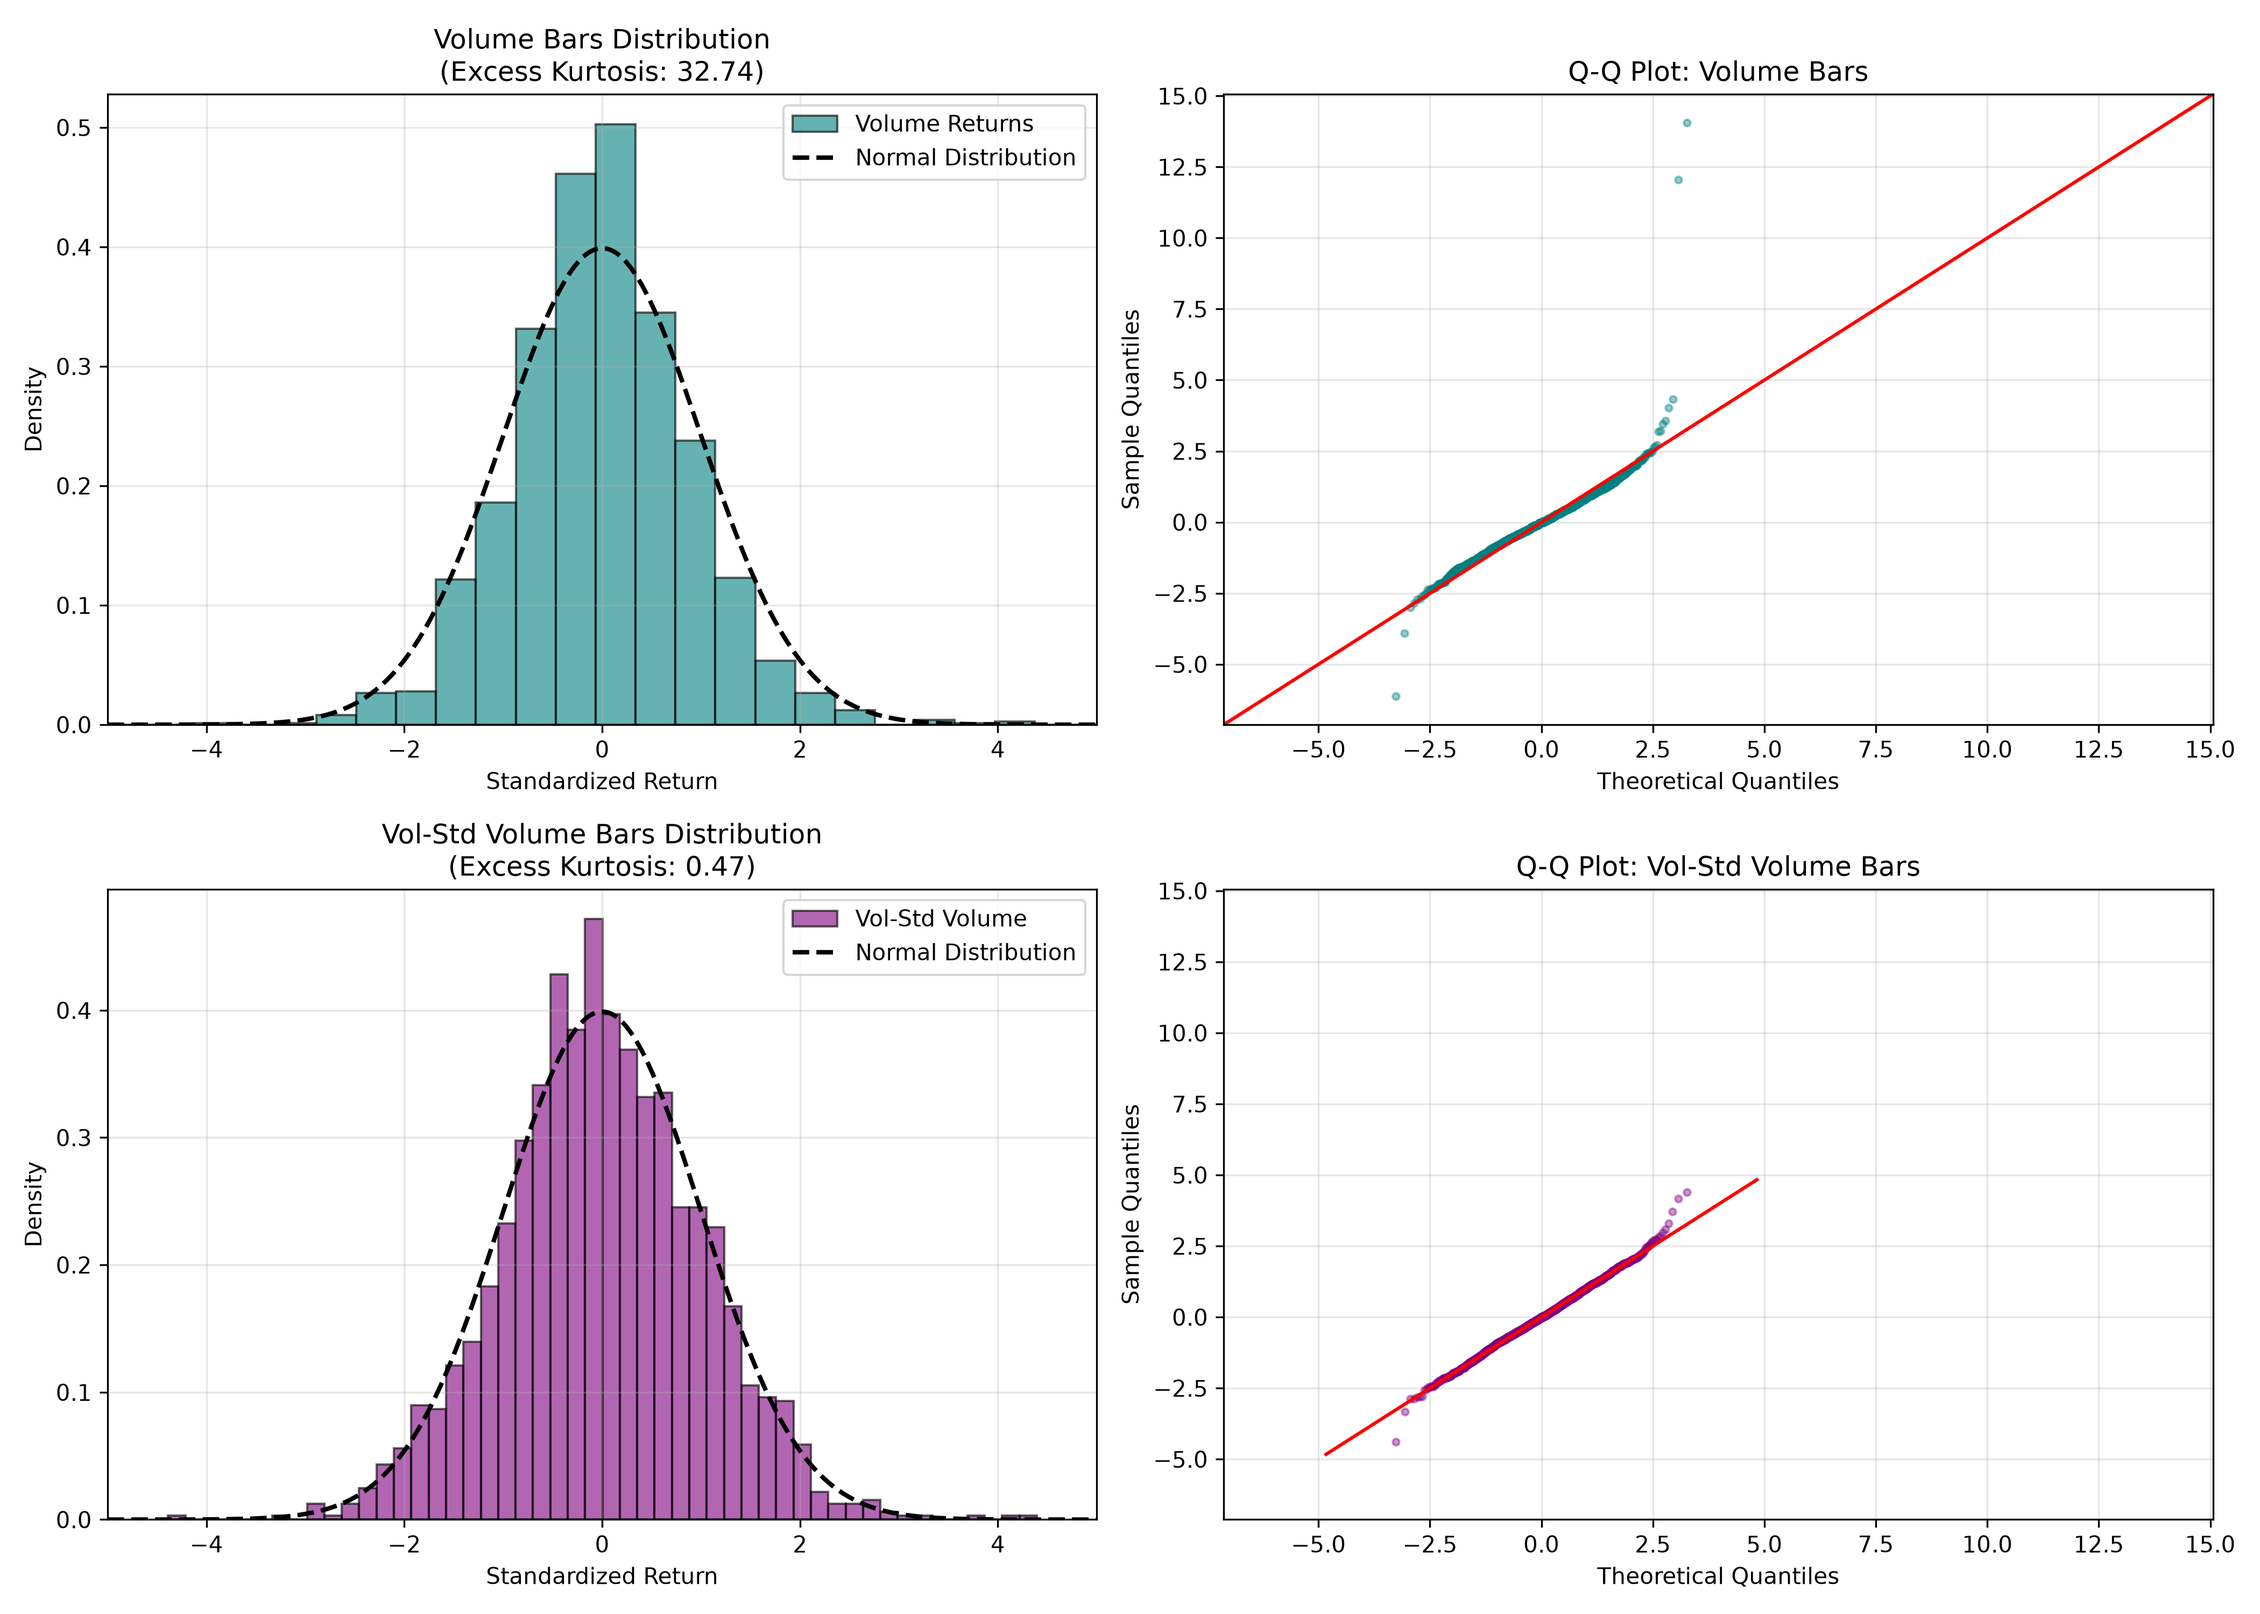
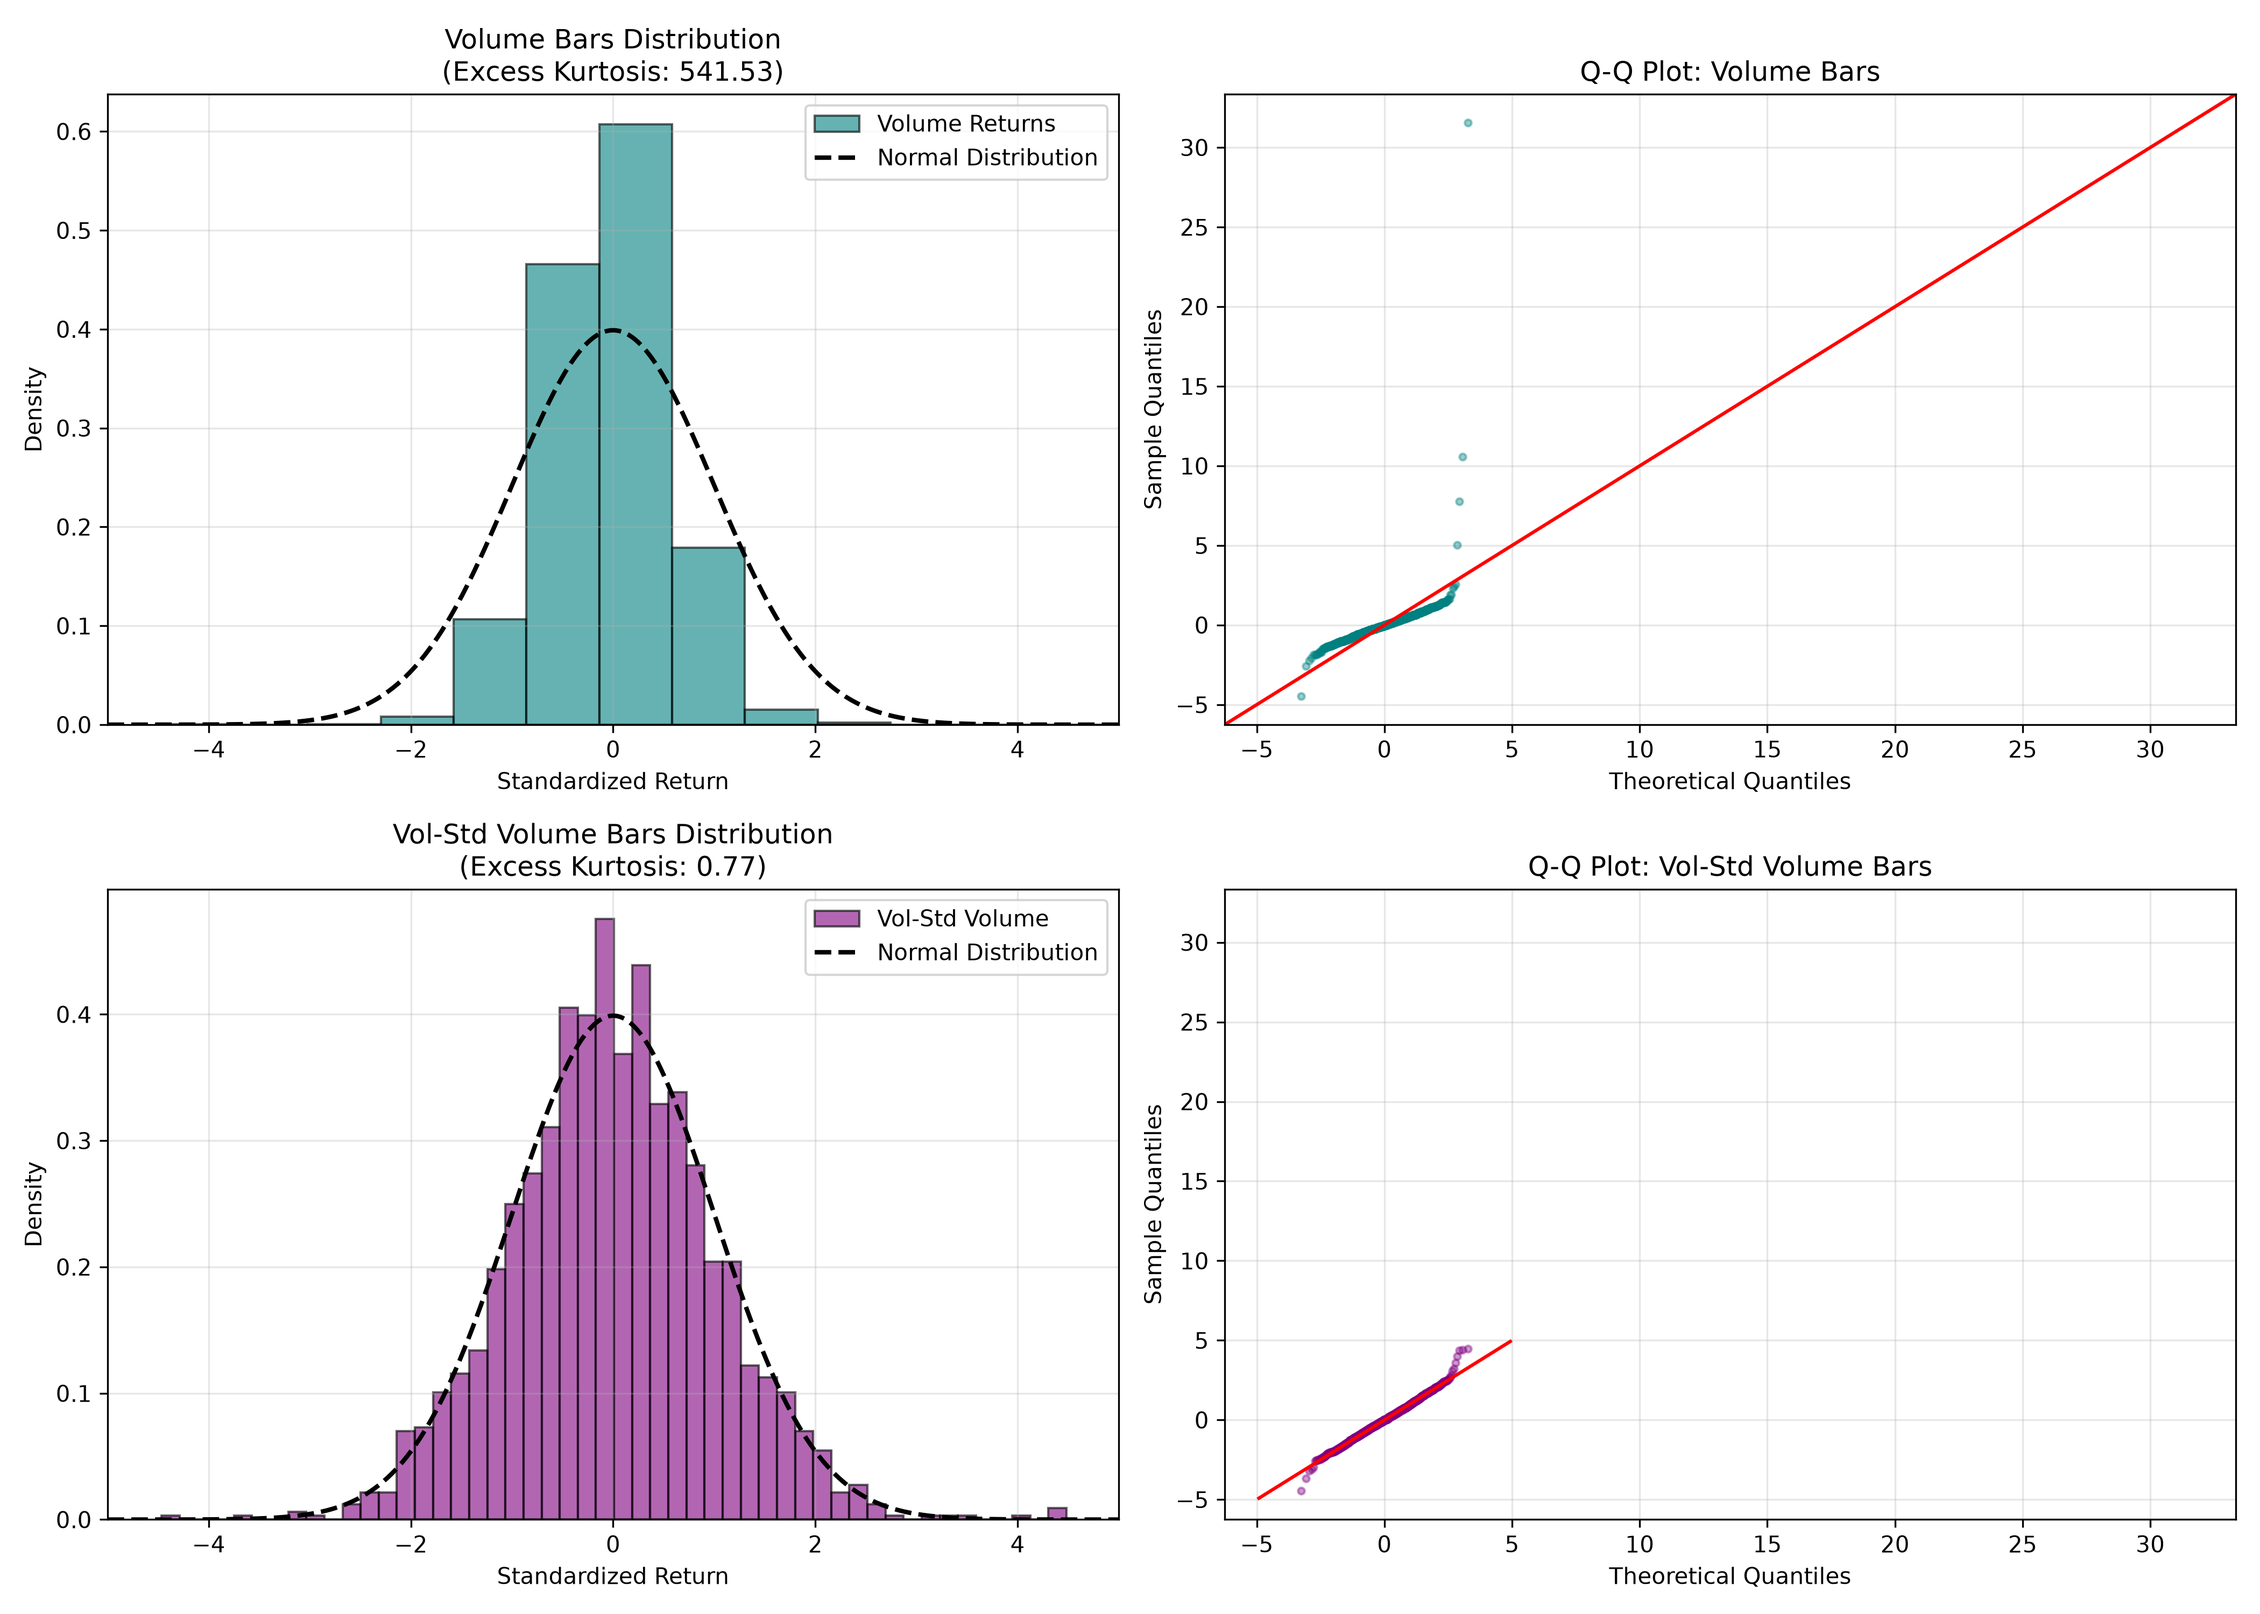
(Undergoing) Making mt5\ a package

diff --git a/src/mt5/packages/data_storage_func.py b/src/mt5/packages/data_storage_func.py
@@ -4,17 +4,13 @@ import pandas as pd
 import numpy as np
 import h5py
 import pytz
-import sys
 
 from datetime import datetime
 from pathlib import Path
 
-import utility_func as uf
+from .utility_func import get_input, change_log
 
-parent_dir = Path(__file__).resolve().parent.parent
-sys.path.append(str(parent_dir))
-from check_env import check_status
-del parent_dir
+from .check_env import check_status
 
 # -------- CONSTANTS ----------
 
@@ -146,7 +142,7 @@ def save_dataset(hdf5_path: Path, symbol: str, mt5_timeframe: int, df: pd.DataFr
     if is_new_file:
         with h5py.File(hdf5_path, "w") as f:  # only truncates because the file doesn't exist yet
             pass
-        uf.change_log(hdf5_path.name, hdf5_path, log_mode="create")
+        change_log(hdf5_path.name, hdf5_path, log_mode="create")
 
     with h5py.File(hdf5_path, "a") as f:  # "a" never overwrites/truncates the whole file
         group = f.require_group(group_path)
@@ -176,7 +172,7 @@ def save_dataset(hdf5_path: Path, symbol: str, mt5_timeframe: int, df: pd.DataFr
         dset.attrs["n_rows"] = len(merged_arr)
 
     new_time = _time_to_datetime(df["time"])
-    uf.change_log(hdf5_path.name, hdf5_path, log_mode="append", log_description={
+    change_log(hdf5_path.name, hdf5_path, log_mode="append", log_description={
         "SYMBOL": symbol,
         "TIMEFRAME": timeframe_name,
         "TIME_START": new_time.min(),
@@ -229,7 +225,7 @@ def remove_dataset(hdf5_path: Path, symbol: str, mt5_timeframe: int) -> str:
         del f[dataset_path]
 
     print(f"<NOTICE> Removed dataset '{dataset_path}' from {hdf5_path}.")
-    uf.change_log(hdf5_path.name, hdf5_path, log_mode="remove", log_description={
+    change_log(hdf5_path.name, hdf5_path, log_mode="remove", log_description={
         "SYMBOL": symbol,
         "TIMEFRAME": timeframe_name,
     })

diff --git a/src/mt5/data_management/add_symbol.py b/src/mt5/data_management/add_symbol.py
@@ -1,22 +1,15 @@
 # -------- IMPORTS ----------
-import utility_func as uf
+import sys
 
 import MetaTrader5 as mt5
 import pandas as pd
-import numpy as np
-import h5py
 import pytz
-import sys
 
-from datetime import datetime
 from pathlib import Path 
-import data_storage_func as dsf
-import utility_func as uf
 
-parent_dir = Path(__file__).resolve().parent.parent 
-sys.path.append(str(parent_dir))
-from check_env import check_status
-del parent_dir 
+from ..packages.data_storage_func import download_ohlcv, save_dataset, load_dataset
+from ..packages.utility_func import get_input
+from ..packages.check_env import check_status
 
 # -------- CONSTANTS ----------
 
@@ -43,22 +36,22 @@ def main():
         quit()
     
     # Get user input
-    user_spec = uf.get_input(FILENAME)
+    user_spec = get_input(FILENAME)
     SYMBOL = user_spec["SYMBOL"]
     MT5_TIMEFRAME = user_spec["MT5_TIMEFRAME"]
     TIME_START = user_spec["TIME_START"]
     TIME_END = user_spec["TIME_END"]
     
     # -------- DOWNLOAD SAMPLE DATA ----------
-    df = dsf.download_ohlcv(SYMBOL, MT5_TIMEFRAME, TIME_START, TIME_END)
+    df = download_ohlcv(SYMBOL, MT5_TIMEFRAME, TIME_START, TIME_END)
     print(df.head())
 
     # -------- SAVE / MERGE INTO HDF5 ----------
-    dataset_path = dsf.save_dataset(HDF5_PATH, SYMBOL, MT5_TIMEFRAME, df)
+    dataset_path = save_dataset(HDF5_PATH, SYMBOL, MT5_TIMEFRAME, df)
     print(f"\n<NOTICE> Data saved at '{dataset_path}' inside {HDF5_PATH}.")
 
     # -------- VERIFY ----------
-    reloaded = dsf.load_dataset(HDF5_PATH, SYMBOL, MT5_TIMEFRAME)
+    reloaded = load_dataset(HDF5_PATH, SYMBOL, MT5_TIMEFRAME)
     print(f"<NOTICE> Reloaded {len(reloaded)} rows from '{dataset_path}'.")
     print(f"<CHECK> Rows are chronologically ascending: {pd.Series(reloaded['time']).is_monotonic_increasing}")
 

diff --git a/src/mt5/demo/timeslice_return.py b/src/mt5/demo/timeslice_return.py
@@ -1,0 +1,29 @@
+# -------- IMPORTS ----------
+from pathlib import Path 
+
+import MetaTrader5 as mt5
+
+from ..packages.data_storage_func import load_dataset
+
+# -------- CONSTANTS ----------
+
+# HDF5 file path
+FILENAME = "MT5CurrencyHistory.h5"
+SCRIPT_DIR = Path(__file__).resolve().parent
+DATASET_DIR = SCRIPT_DIR.parent.parent.parent / "dataset"
+HDF5_PATH = DATASET_DIR / FILENAME
+
+# MT5 symbol
+SYMBOL = "EURUSD"
+MT5_TIMEFRAME = mt5.TIMEFRAME_D1
+
+# -------- MAIN ----------
+def main():
+    sample_ohlcv = load_dataset(HDF5_PATH, SYMBOL, MT5_TIMEFRAME)
+    print(sample_ohlcv)
+
+# -------- SYSTEM CALLING ----------
+if __name__ == "__main__":
+    main()
+else:
+    print(f"<IMPORT> Importing {__file__}...")

diff --git a/src/mt5/packages/utility_func.py b/src/mt5/packages/utility_func.py
@@ -9,10 +9,7 @@ import sys
 from datetime import datetime
 from pathlib import Path
 
-parent_dir = Path(__file__).resolve().parent.parent
-sys.path.append(str(parent_dir))
-from check_env import check_status
-del parent_dir
+from .check_env import check_status
 
 # -------- CONSTANTS ----------
 TIMEZONE = pytz.timezone("Etc/UTC")
@@ -319,7 +316,7 @@ def mt5_download_rates(SYMBOL: str, MT5_TIMEFRAME, HDF5_TIMEFRAME: str, TIME_STA
 
 # -------- SYSTEM CALLING ----------
 if __name__ != "__main__":
-    print(f"Importing {__file__}...")
+    print(f"<IMPORT> Importing {__file__}...")
 
 else:
     print("Why are you running this file?")

diff --git a/src/mt5/packages/check_env.py b/src/mt5/packages/check_env.py
@@ -2,11 +2,10 @@
 import os 
 import MetaTrader5 as mt5
 
-from dotenv import load_dotenv
-from pathlib import Path
+from dotenv import load_dotenv, find_dotenv
 
 # -------- CONSTANTS ----------
-ENV_PATH = Path(__file__).resolve().parent.parent.parent / "keys.env"
+ENV_PATH = find_dotenv(filename="keys.env", raise_error_if_not_found=True)
 load_dotenv(dotenv_path = ENV_PATH)
 
 MT5_CRED = {"account": int(os.getenv("mt5_account")),

diff --git a/src/mt5/gaussian_analysis/README.md b/src/mt5/gaussian_analysis/README.md
@@ -12,7 +12,7 @@ Run the normality comparison script using `uv` from the repository root director
 
 ```bash
 # Compare all normalization methods (Time, Volume, Dollar, Vol-Std Time, Vol-Std Volume)
-uv run mt5-api/Gaussian_Analysis/mt5-advanced-normalization.py
+uv run src/mt5/gaussian_analysis/mt5_advanced_normalization.py
 ```
 
 ---
@@ -25,7 +25,21 @@ Raw exchange rates (closing prices $P_t$) are non-stationary—they trend, drift
 In quantitative finance, we use **log returns** instead of simple percentage returns:
 $$R_t = \ln\left(\frac{P_t}{P_{t-1}}\right)$$
 
-* **Mathematical Property**: Log returns are time-additive. Summing the log returns of five consecutive minutes yields the exact log return of the entire 5-minute block.
+* **Mathematical Property:** Log returns are time-additive. Summing the log returns of five consecutive minutes yields the exact log return of the entire 5-minute block. Consider a set of $n$ closing prices, $C=\{P_0,P_1,\cdots,P_n\}$, with each closing price being $\Delta T$ apart in time. So, the entire set $C$ spans over $n\Delta T$ in time. If $P_t = P_{t-1}$ then $R_t = 0$; $P_t < P_{t-1}$ then $R_t < 0$; $P_t > P_{t-1}$ then $R_t > 0$. 
+
+  But you might wonder why it's not $R_t = P_t - P_{t-1}$ or the **simple return** $R(t) = P_t/P_{t-1} - 1$. Well, if $R_t = P_t - P_{t-1}$, sure it might satisfy the *time-additive* property: $P_t - P_{t-2} = R_t + R_{t-1}$. But then it would be just price difference, if the difference in price is very minute or very large, the quantity $P_t - P_{t-1}$ wouldn't exactly capture the sheer difference between $P_t$ and $P_{t-1}$. 
+
+  As for the simple return, consider the case where $(P_0,P_1,P_2) = (100, 110, 99)$. There are three simple returns we can define from this $P_0,P_1,$ and $P_2$. Over a single time interval, we have 
+
+  $$ R(P_0,P_1) = \frac{P_1}{P_0} - 1 = 10\% ,\quad R(P_2,P_1) = \frac{P_2}{P_1} - 1 = -10\%,\quad\text{and}\quad R(P_2,P_0) = \frac{P_2}{P_0} - 1 = -1\% $$
+
+  But this is not time-additive: $-1\% = R(P_2,P_0) \neq R(P_2,P_1) + R(P_1, P_0) = 10\% - 10\% = 0\%$. Thus, we chose $R_t = \ln(P_t/P_{t-1})$ because it encapsulates the difference in scale between $P_t$ and $P_{t-1}$ comprehensibly and it's time-additive. The mathematical form isn't too intimidating too. In general, we also have that 
+
+  $$ \ln \frac{P_n}{P_0} = \sum_{t=1}^{n\Delta T} R_t $$
+
+  Also, if $1 + r(t) = P_t/P_{t-1}$, where $r(t)$ is the simple return, then we may approximate $R_t = \ln(1 + r(t)) \simeq r(t)$ for a small enough $r(t)$.
+
+
 * **Code Implementation**:
   ```python
   df['Time_Log_Returns'] = np.log(df['close'] / df['close'].shift(1))

diff --git a/src/distribution/README.md b/src/distribution/README.md
@@ -1,6 +1,6 @@
 # Volume-Based Microstructure Analysis: Time Bars vs. Volume Bars
 
-This folder contains [fx_try.py](file:forex-currency-trading/distribution/fx_try.py), a script that demonstrates the statistical benefits of **Volume Bars** over standard **Time Bars** for modeling asset returns.
+This folder contains [fx_try.py](file:forex-currency-trading/src/distribution/fx_try.py), a script that demonstrates the statistical benefits of **Volume Bars** over standard **Time Bars** for modeling asset returns.
 
 ## Background & Rationale
 
@@ -29,7 +29,7 @@ In actual financial markets, returns exhibit **heavy/fat tails (leptokurtosis)**
 * In the real world, these "Black Swan" events occur regularly. Assuming a Gaussian distribution severely **underestimates tail risk**, which has historically led to massive hedge fund collapses (such as LTCM in 1998).
 
 ### 3. Why Quant Traders Strive for Gaussian returns
-If Gaussian models are so unrealistic, why does [fx_try.py](file:///home/rithkung/undergrad/fx_analysis/forex-currency-trading/distribution/fx_try.py) attempt to restore normality using **Volume Bars**?
+If Gaussian models are so unrealistic, why does [fx_try.py](file:forex-currency-trading/src/distribution/fx_try.py) attempt to restore normality using **Volume Bars**?
 Many of the most powerful and widely used tools in quantitative finance are mathematically predicated on normal distributions:
 * **Black-Scholes Option Pricing**: Assumes log-normal price paths.
 * **Modern Portfolio Theory (Markowitz)**: Uses mean and variance to optimize portfolios (which breaks down if returns are highly asymmetric or heavy-tailed).
@@ -42,7 +42,7 @@ By changing our sampling clock from chronological "time" to transactional "volum
 
 ## Methodology & Pipeline
 
-The pipeline implemented in [fx_try.py](forex-currency-trading/distribution/fx_try.py) follows these key steps:
+The pipeline implemented in [fx_try.py](forex-currency-trading/src/distribution/fx_try.py) follows these key steps:
 
 ### 1. Data Ingestion
 - **Asset Selection**: Downloads 1-minute historical data for `SPY` (S&P 500 ETF) over a `5d` (5 days) period via `yfinance`. 
@@ -91,9 +91,9 @@ Alternatively, ensure the following Python packages are installed:
 
 Navigate to the project root directory and execute:
 ```bash
-uv run python distribution/fx_try.py
+uv run python src/distribution/fx_try.py
 ```
-Or directly within the `distribution` directory:
+Or directly within the `src/distribution` directory:
 ```bash
 python fx_try.py
 ```

diff --git a/dataset/README.md b/dataset/README.md
@@ -4,4 +4,4 @@ This directory is dedicated to storing any data we use in our study: be it raw, 
 
 Currently, there is/are 1 data-storage file(s) within this directory. 
 
-- `MetaTrader5CurrencyHistory.h5`: This HDF5 file stores various currency pairs' prices history. The contents within this file is grouped by timeframe (5 year, 1 year, etc.) and withn each timeframe are the prices in a currency pair's history. This file was first created/initialized from `window_folder/metatrader5/data_preprocessing/5year_dataset.py`.
+- `MetaTrader5CurrencyHistory.h5`: This HDF5 file stores various currency pairs' prices history. The contents within this file is grouped by timeframe (5 year, 1 year, etc.) and withn each timeframe are the prices in a currency pair's history. This file was first created/initialized from `src/mt5/data_management/add_symbol.py`.
